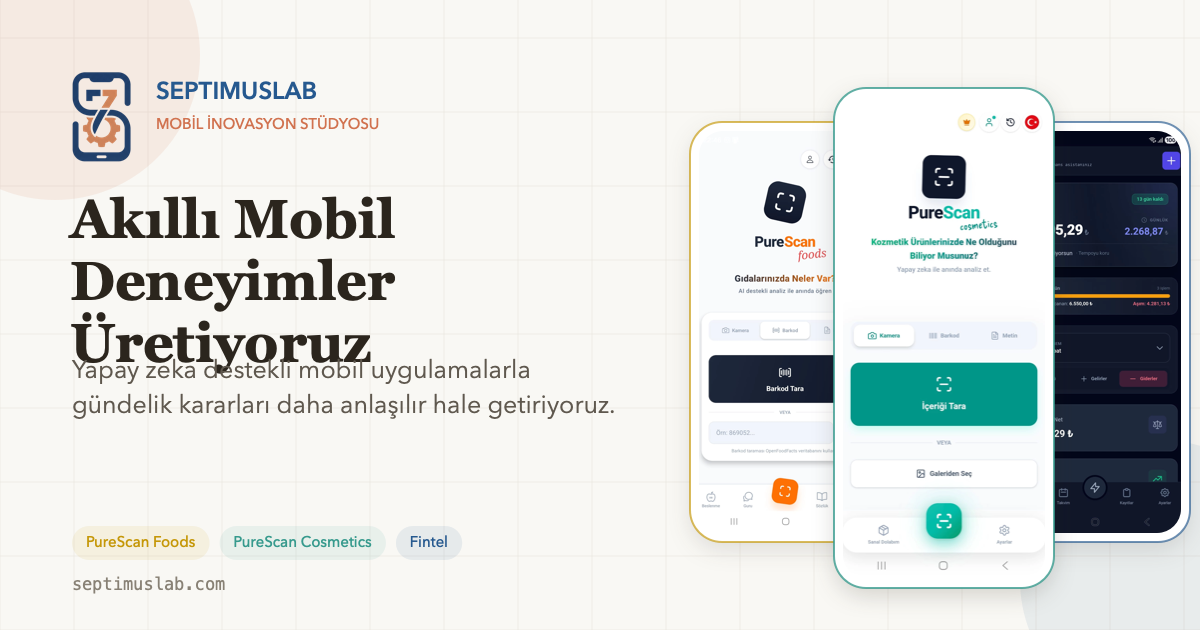
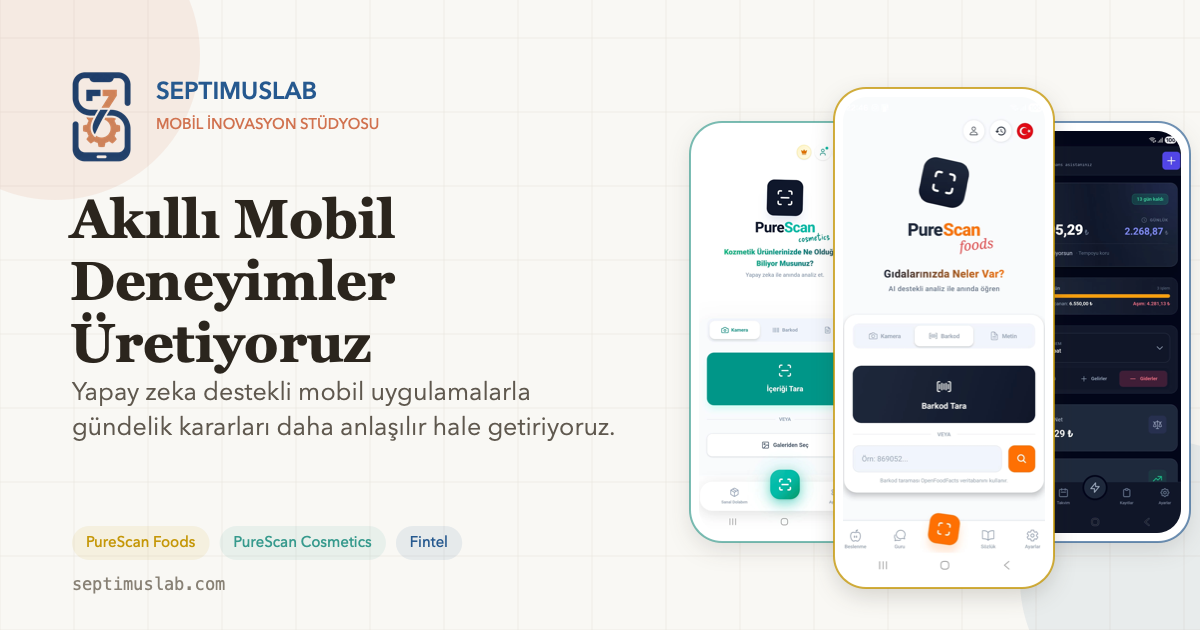
.

diff --git a/scripts/generate-og-image.swift b/scripts/generate-og-image.swift
@@ -192,7 +192,7 @@ drawText(
 drawText(
     "Yapay zeka destekli mobil uygulamalarla gündelik kararları daha anlaşılır hale getiriyoruz.",
     x: 72,
-    top: 352,
+    top: 374,
     width: 560,
     font: font("Avenir Next Regular", size: 25, fallbackWeight: .regular),
     color: color(76, 70, 61),
@@ -229,9 +229,9 @@ drawText(
 )
 
 drawPhone(
-    image: foods,
+    image: cosmetics,
     rect: NSRect(x: 690, y: 88, width: 190, height: 420),
-    borderColor: color(184, 134, 11, 0.66),
+    borderColor: color(45, 138, 122, 0.66),
     shadowAlpha: 0.13
 )
 drawPhone(
@@ -241,9 +241,9 @@ drawPhone(
     shadowAlpha: 0.13
 )
 drawPhone(
-    image: cosmetics,
+    image: foods,
     rect: NSRect(x: 834, y: 42, width: 220, height: 500),
-    borderColor: color(45, 138, 122, 0.78),
+    borderColor: color(184, 134, 11, 0.78),
     shadowAlpha: 0.18
 )
 